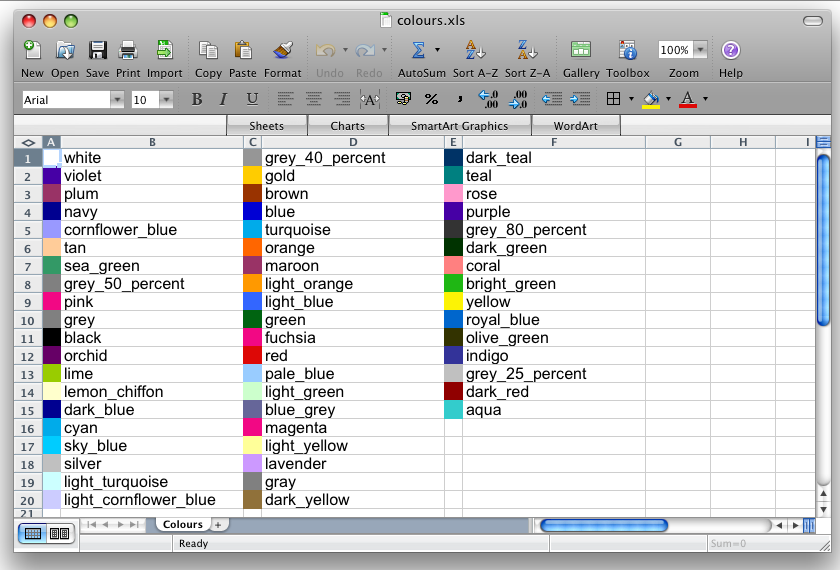
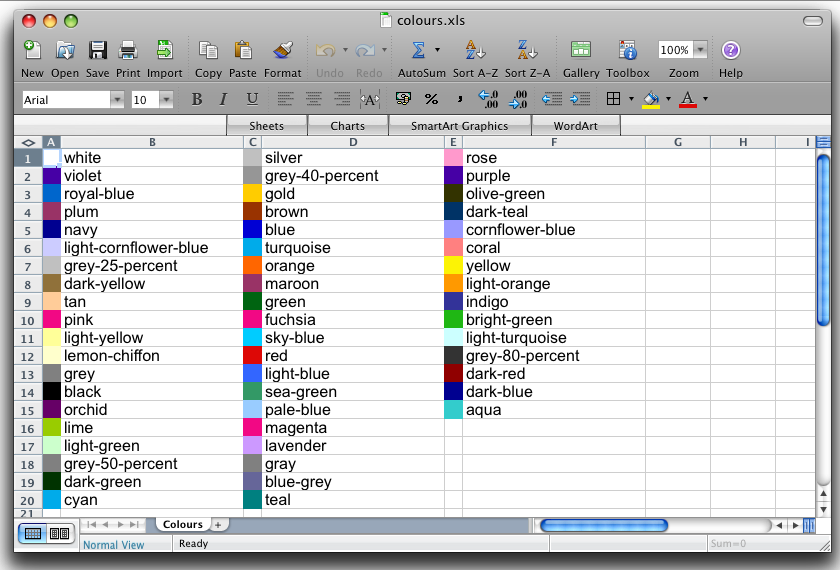
Bump version number. Minor tweaks to docs and formatting methods.

Changed region(s): [[0.0, 0.0298, 1.0, 1.0], [0.5262, 0.2386, 0.7119, 0.7158]]

diff --git a/lib/formatting.rb b/lib/formatting.rb
@@ -3,54 +3,54 @@ module Formatting
     'aqua' => 0x31,
     'black'   => 0x08,
     'blue'    => 0x0C,
-    'blue_grey' => 0x36,
-    'bright_green' => 0xb,
+    'blue-grey' => 0x36,
+    'bright-green' => 0xb,
     'brown' => 0x3c,
     'coral' => 0x1d,
-    'cornflower_blue' => 0x18,
+    'cornflower-blue' => 0x18,
     'cyan'    => 0x0F,
-    'dark_blue' => 0x12,
-    'dark_green' => 0x3a,
-    'dark_red' => 0x10,
-    'dark_teal' => 0x38,
-    'dark_yellow' => 0x13,
+    'dark-blue' => 0x12,
+    'dark-green' => 0x3a,
+    'dark-red' => 0x10,
+    'dark-teal' => 0x38,
+    'dark-yellow' => 0x13,
     'fuchsia' => 0x0E,
     'gold' => 0x33,
     'gray'    => 0x17,
     'grey'    => 0x17,
     'green' => 0x11,
-    'grey_25_percent' => 0x16,
-    'grey_40_percent' => 0x37,
-    'grey_50_percent' => 0x17,
-    'grey_80_percent' => 0x3f,
+    'grey-25-percent' => 0x16,
+    'grey-40-percent' => 0x37,
+    'grey-50-percent' => 0x17,
+    'grey-80-percent' => 0x3f,
     'indigo' => 0x3e,
     'lavender' => 0x2e,
-    'lemon_chiffon' => 0x1a,
-    'light_blue' => 0x30,
-    'light_cornflower_blue' => 0x1f,
-    'light_green' => 0x2a,
-    'light_orange' => 0x34,
-    'light_turquoise' => 0x29,
-    'light_yellow' => 0x2b,
+    'lemon-chiffon' => 0x1a,
+    'light-blue' => 0x30,
+    'light-cornflower-blue' => 0x1f,
+    'light-green' => 0x2a,
+    'light-orange' => 0x34,
+    'light-turquoise' => 0x29,
+    'light-yellow' => 0x2b,
     'lime'    => 0x0B,
     'lime' => 0x32,
     'magenta' => 0x0E,
     'maroon' => 0x19,
     'navy'    => 0x12,
-    'olive_green' => 0x3b,
+    'olive-green' => 0x3b,
     'orange' => 0x35,
     'orchid' => 0x1c,
-    'pale_blue' => 0x2c,
+    'pale-blue' => 0x2c,
     'pink'    => 0x21,
     'pink' => 0xe,
     'plum' => 0x3d,
     'purple'  => 0x14,
     'red'     => 0x0A,
     'rose' => 0x2d,
-    'royal_blue' => 0x1e,
-    'sea_green' => 0x39,
+    'royal-blue' => 0x1e,
+    'sea-green' => 0x39,
     'silver'  => 0x16,
-    'sky_blue' => 0x28,
+    'sky-blue' => 0x28,
     'tan' => 0x2f,
     'teal' => 0x15,
     'turquoise' => 0xf,
@@ -58,6 +58,8 @@ module Formatting
     'white'   => 0x09,
     'yellow'  => 0x0D
   }
+  
+  COLORS = COLOURS
 end
 
 class Font
@@ -537,10 +539,8 @@ class Pattern
     @pattern = SOLID_PATTERN
     @pattern_fore_colour = colour_index
   end
-  
-  def color=(arg)
-    self.colour = arg
-  end
+  alias :color= :colour=
+  alias :fill= :colour=
 end
 
 class Protection

diff --git a/webby/content/examples/formatting.rb b/webby/content/examples/formatting.rb
@@ -69,6 +69,7 @@ sheet.write(3, 1, "borders",
 # Or the hash-free option.
 crazy_border_format = StyleFormat.new
 crazy_border_format.borders.all = 'slanted-medium-dash-dotted grey'
+crazy_border_format.pattern.fill = 'light-cornflower-blue'
 
 sheet.write(5, 1, "borders", crazy_border_format)
 

diff --git a/webby/content/examples/colours.rb b/webby/content/examples/colours.rb
@@ -6,7 +6,7 @@ sheet = book.add_sheet("Colours") # You can name your worksheets.
 
 per_row = 20
 
-Formatting::COLOURS.keys.each_with_index do |c, i|
+Formatting::COLORS.keys.each_with_index do |c, i|
   format = StyleFormat.new
   format.pattern.color = c
   row = i % per_row

diff --git a/lib/surpass.rb b/lib/surpass.rb
@@ -1,7 +1,7 @@
 module Surpass
 
   # :stopdoc:
-  VERSION = '0.0.2'
+  VERSION = '0.0.3'
   LIBPATH = ::File.expand_path(::File.dirname(__FILE__)) + ::File::SEPARATOR
   PATH = ::File.dirname(LIBPATH) + ::File::SEPARATOR
   # :startdoc:
